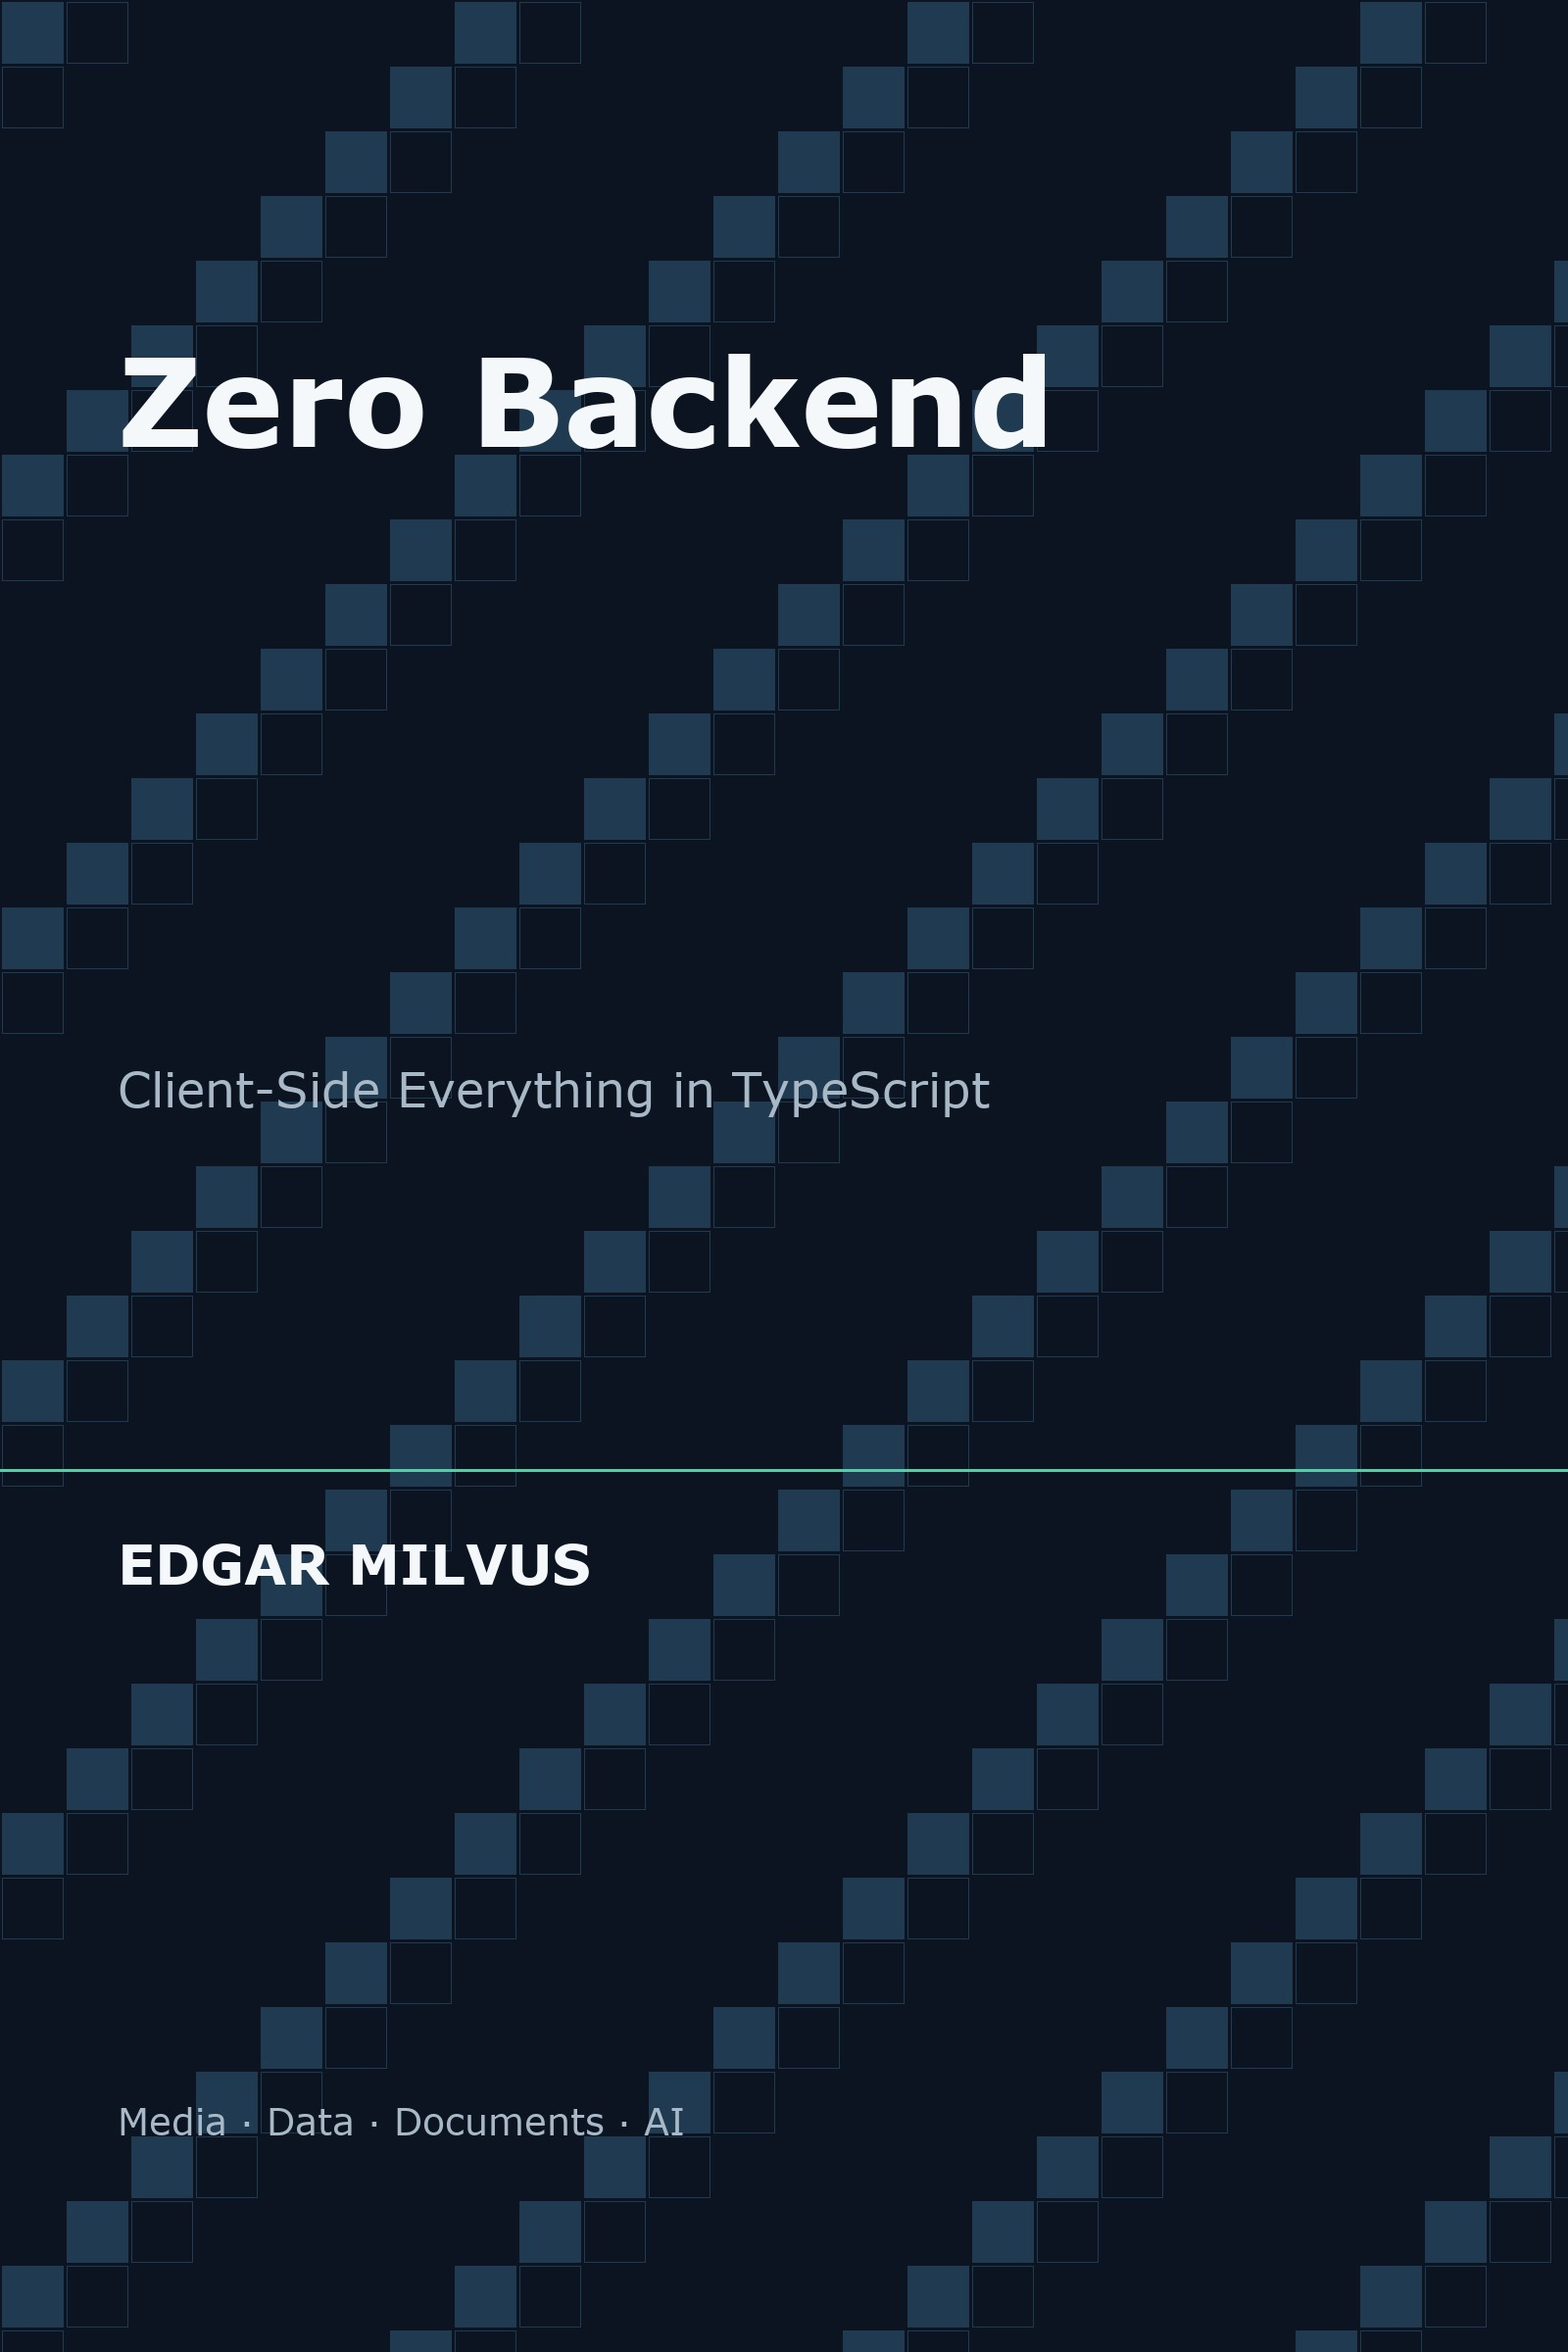
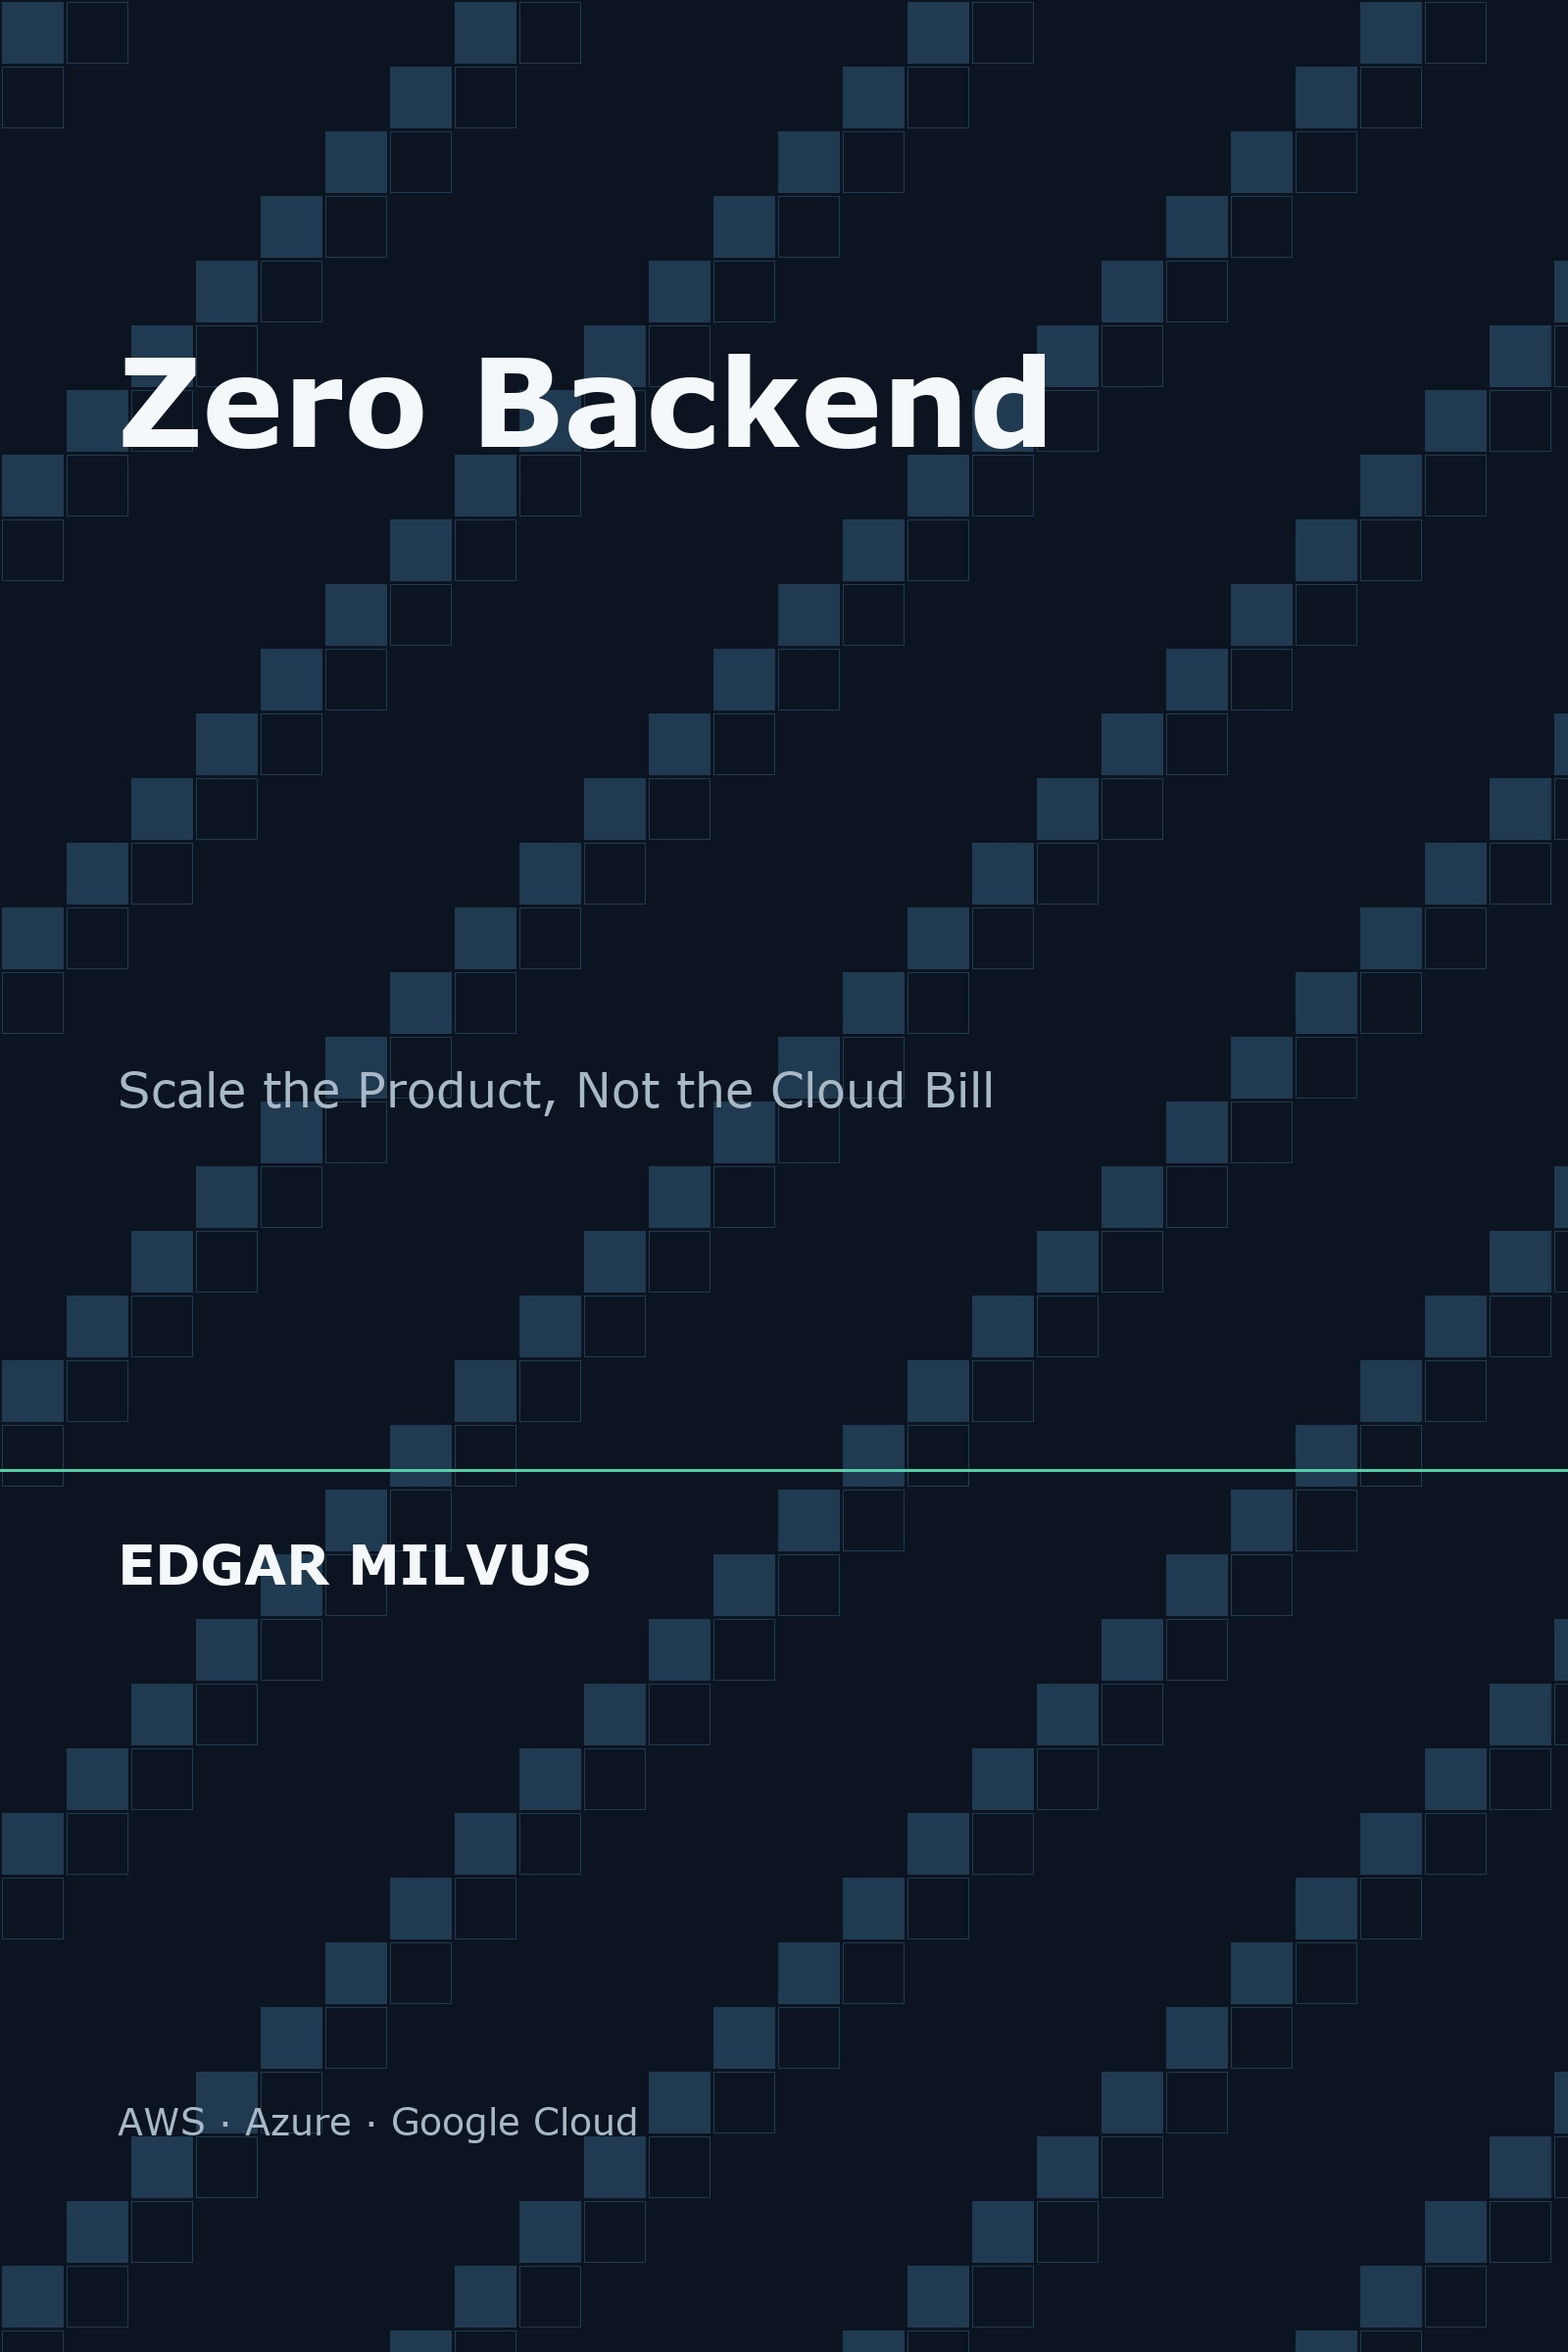
The subtitle: Scale the Product, Not the Cloud Bill
The cover carries the promise and the three providers in the tagline: AWS, Azure, Google Cloud.
The README and the repository description follow the same line.

diff --git a/README.md b/README.md
@@ -1,6 +1,6 @@
 # Zero Backend — companion code
 
-The code for *Zero Backend: Client-Side Everything in TypeScript*, one folder per chapter.
+The code for *Zero Backend: Scale the Product, Not the Cloud Bill*, one folder per chapter.
 
 The book's argument is simple to state and hard to prove: a browser can do most of the work a server
 is paid for. Each chapter takes one real job — play a large video, convert a photo, query a database,
@@ -15,7 +15,7 @@ are not here; what is here is everything a reader can run and check.
 ## The book
 
 <p align="center">
-  <img src="images/cover.jpg" alt="Zero Backend: Client-Side Everything in TypeScript" width="360">
+  <img src="images/cover.jpg" alt="Zero Backend: Scale the Product, Not the Cloud Bill" width="360">
 </p>
 
 **A field guide to moving real workloads out of the cloud.** Twenty chapters, one workload each: a
